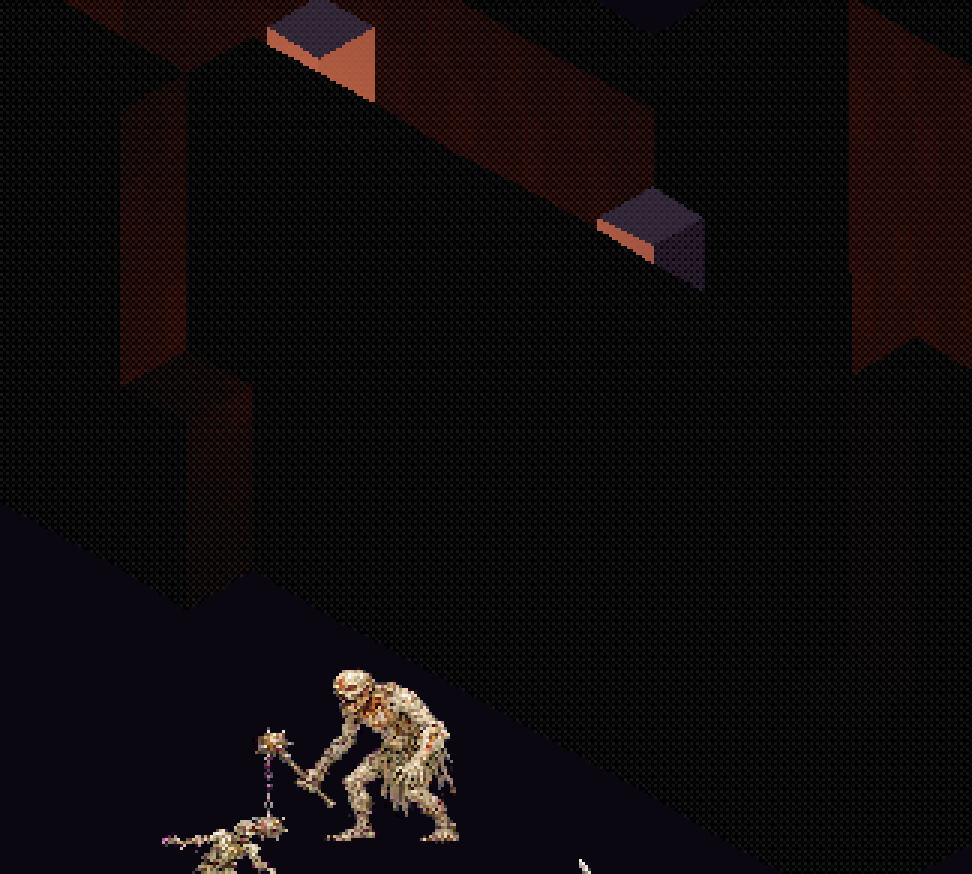
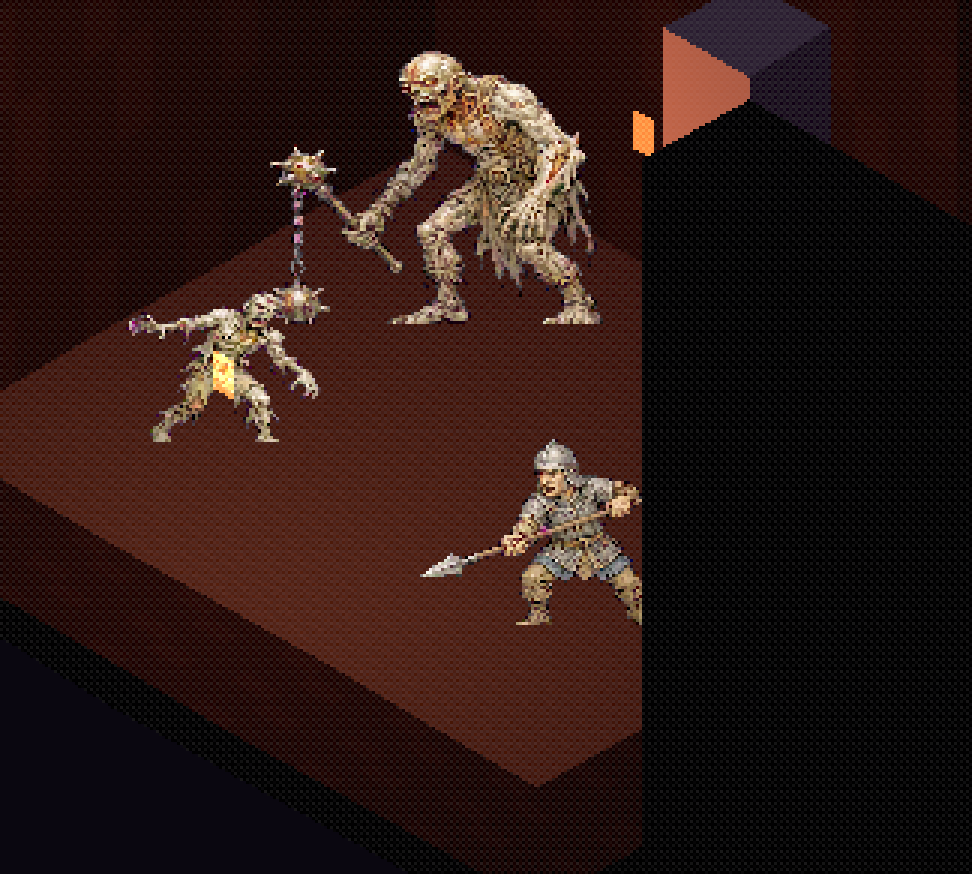
fix(dungeon): interior camera + cutaway — focusRect (camera centers+fits the focus ROOM), pieces origin-shifted like tiles/lights (v3 card bug: raw cell coords), CUTAWAY WALLS (camera-side perimeter drops to knee height so scale-domain-tall rooms read); card re-shot — the gloom crypt frame

diff --git a/src/ui/theater-boot.js b/src/ui/theater-boot.js
@@ -4288,7 +4288,7 @@ function interiorBuildLights(lights, cx, cz){
 // rig's metrics (a piece whose slug doesn't join the registry, or whose texture hasn't loaded yet,
 // silently skips — same total-function/never-throw discipline every other figure resolution in this
 // file keeps).
-function interiorBuildPieces(pieces){
+function interiorBuildPieces(pieces, cx, cz){
   const group = new THREE.Group();
   let resolved = 0;
   (pieces || []).forEach((p) => {
@@ -4299,7 +4299,7 @@ function interiorBuildPieces(pieces){
     });
     const g = buildSpriteBillboard(entry);
     if(!g) return; // texture not loaded yet — falls through, same as every other billboard resolution
-    g.position.set(p.cellX || 0, (base.floor || 0) - 0.4, p.cellY || 0); // -0.4: feet on the y=-0.5 floor plane (mesh.position.y already lifts h/2 inside the group)
+    g.position.set((p.cellX || 0) - (cx || 0), (base.floor || 0) - 0.4, (p.cellY || 0) - (cz || 0)); // origin-shifted like every tile/light (the v3 card bug: raw cell coords rendered pieces outside the fitted frame); -0.4: feet on the y=-0.5 floor plane
     group.add(g);
     resolved++;
   });
@@ -4329,11 +4329,15 @@ function setInteriorBoard(data){
   if(S.renderer) S.renderer.shadowMap.enabled = true;
 
   const b = data.bounds || { minX: 0, maxX: 0, minZ: 0, maxZ: 0 };
-  const cx = (b.minX + b.maxX) / 2, cz = (b.minZ + b.maxZ) / 2;
+  // Camera framing: fit to the FOCUS ROOM when the board carries one (interiorBuildBoard's
+  // focusRect — study card v3 "camera pulled into the room"); neighbors still render, they just
+  // sit outside the fitted frame. Fallback: the whole board footprint, the original behavior.
+  const fit = data.focusRect || b;
+  const cx = (fit.minX + fit.maxX) / 2, cz = (fit.minZ + fit.maxZ) / 2;
   S.boardCenter = new THREE.Vector3(0, 0, 0);
   S.boardOrigin = { cx, cz };
-  S.boardHalfX = (b.maxX - b.minX) / 2 + 1;
-  S.boardHalfZ = (b.maxZ - b.minZ) / 2 + 1;
+  S.boardHalfX = (fit.maxX - fit.minX) / 2 + 2;
+  S.boardHalfZ = (fit.maxZ - fit.minZ) / 2 + 2;
   S.boardHalfExtent = Math.max(S.boardHalfX, S.boardHalfZ);
   S.lastGrid = null; // no band/lane grid on an interior tray — zoneToWorld/zoom-bias callers degrade to their own defaults
 
@@ -4376,7 +4380,27 @@ function setInteriorBoard(data){
       })
     : (data.instances || {});
   const floorMesh = interiorBuildInstancedMesh(inst.floor, cx, cz, floorTex, variant, "floor");
-  const wallMesh = interiorBuildInstancedMesh(inst.wall, cx, cz, wallTex, variant, "wall");
+  // CUTAWAY WALLS (study card v4): when the board frames a focus room, the room's CAMERA-SIDE
+  // perimeter walls drop to knee height so the camera sees INTO the room instead of at the outside
+  // face of a (possibly scale-domain-tall) wall — the standard dungeon-view cutaway. Computed from
+  // the camera yaw AT BUILD TIME (a later user rotate keeps the same cutaway until the next board
+  // build — acceptable v1, noted here on purpose).
+  let wallList = inst.wall;
+  if(data.focusRect){
+    const fr = data.focusRect;
+    const yawNow = (S.rotationStep * 90 * Math.PI) / 180 + (CAM_YAW_OFFSET_DEG * Math.PI) / 180;
+    const dirX = Math.sin(yawNow), dirZ = Math.cos(yawNow);
+    const KNEE = 0.35;
+    wallList = inst.wall.map(function(wi){
+      const inBand = wi.x >= fr.minX - 1 && wi.x <= fr.maxX + 1 && wi.z >= fr.minZ - 1 && wi.z <= fr.maxZ + 1;
+      if(!inBand) return wi;
+      const rx = wi.x - cx, rz = wi.z - cz;
+      if(rx * dirX + rz * dirZ <= 0) return wi;            // far-side walls stay full height
+      if((wi.sy || 1) <= KNEE) return wi;
+      return Object.assign({}, wi, { sy: KNEE });
+    });
+  }
+  const wallMesh = interiorBuildInstancedMesh(wallList, cx, cz, wallTex, variant, "wall");
   const doorMesh = interiorBuildInstancedMesh(inst.doorframe, cx, cz, null, variant, "doorframe");
   const pillarMesh = interiorBuildInstancedMesh(inst.pillar, cx, cz, null, variant, "pillar");
   [floorMesh, wallMesh, doorMesh, pillarMesh].forEach((mesh) => { if(mesh) S.interiorGroup.add(mesh); });
@@ -4393,7 +4417,7 @@ function setInteriorBoard(data){
   // DUNGEON-GRAPH.md U3 iteration-2, ruling 3: creature/PC billboard sprites standing in the room
   // (data.pieces, a plain field the caller sets directly on the board object — independent of
   // interiorBuildBoard, same as data.lightProfile above).
-  const piecesBuilt = interiorBuildPieces(data.pieces);
+  const piecesBuilt = interiorBuildPieces(data.pieces, cx, cz);
   S.interiorGroup.add(piecesBuilt.group);
   S.interiorPiecesResolved = piecesBuilt.resolved;
   S.interiorPiecesRequested = piecesBuilt.requested;

diff --git a/src/ui/theater-interior.js b/src/ui/theater-interior.js
@@ -358,6 +358,15 @@ function interiorBuildBoard(plan, opts) {
     instances: { floor: floor, wall: wall, doorframe: doorframe, pillar: pillar },
     lights: lights,
     bounds: { minX: minX, maxX: maxX, minZ: minZ, maxZ: maxZ },
+    // camera-framing hint: when a focus room was requested, carry its rect (raw plan cell space —
+    // the same space every instance above uses) so setInteriorBoard can CENTER + FIT the camera on
+    // the room itself instead of the whole kept-neighborhood footprint (study card v3: "camera
+    // pulled into the room").
+    focusRect: (function(){
+      if (opts.focusSegNum == null) return null;
+      const fr = (plan.rooms || []).find(function(r){ return r.segNum === opts.focusSegNum; });
+      return fr ? { minX: fr.x, maxX: fr.x + fr.w - 1, minZ: fr.y, maxZ: fr.y + fr.d - 1 } : null;
+    })(),
     meta: { roomCount: roomCount, floorCount: floor.length, wallCount: wall.length,
       doorCount: doorframe.length, pillarCount: pillar.length, lightCount: lights.length }
   };
